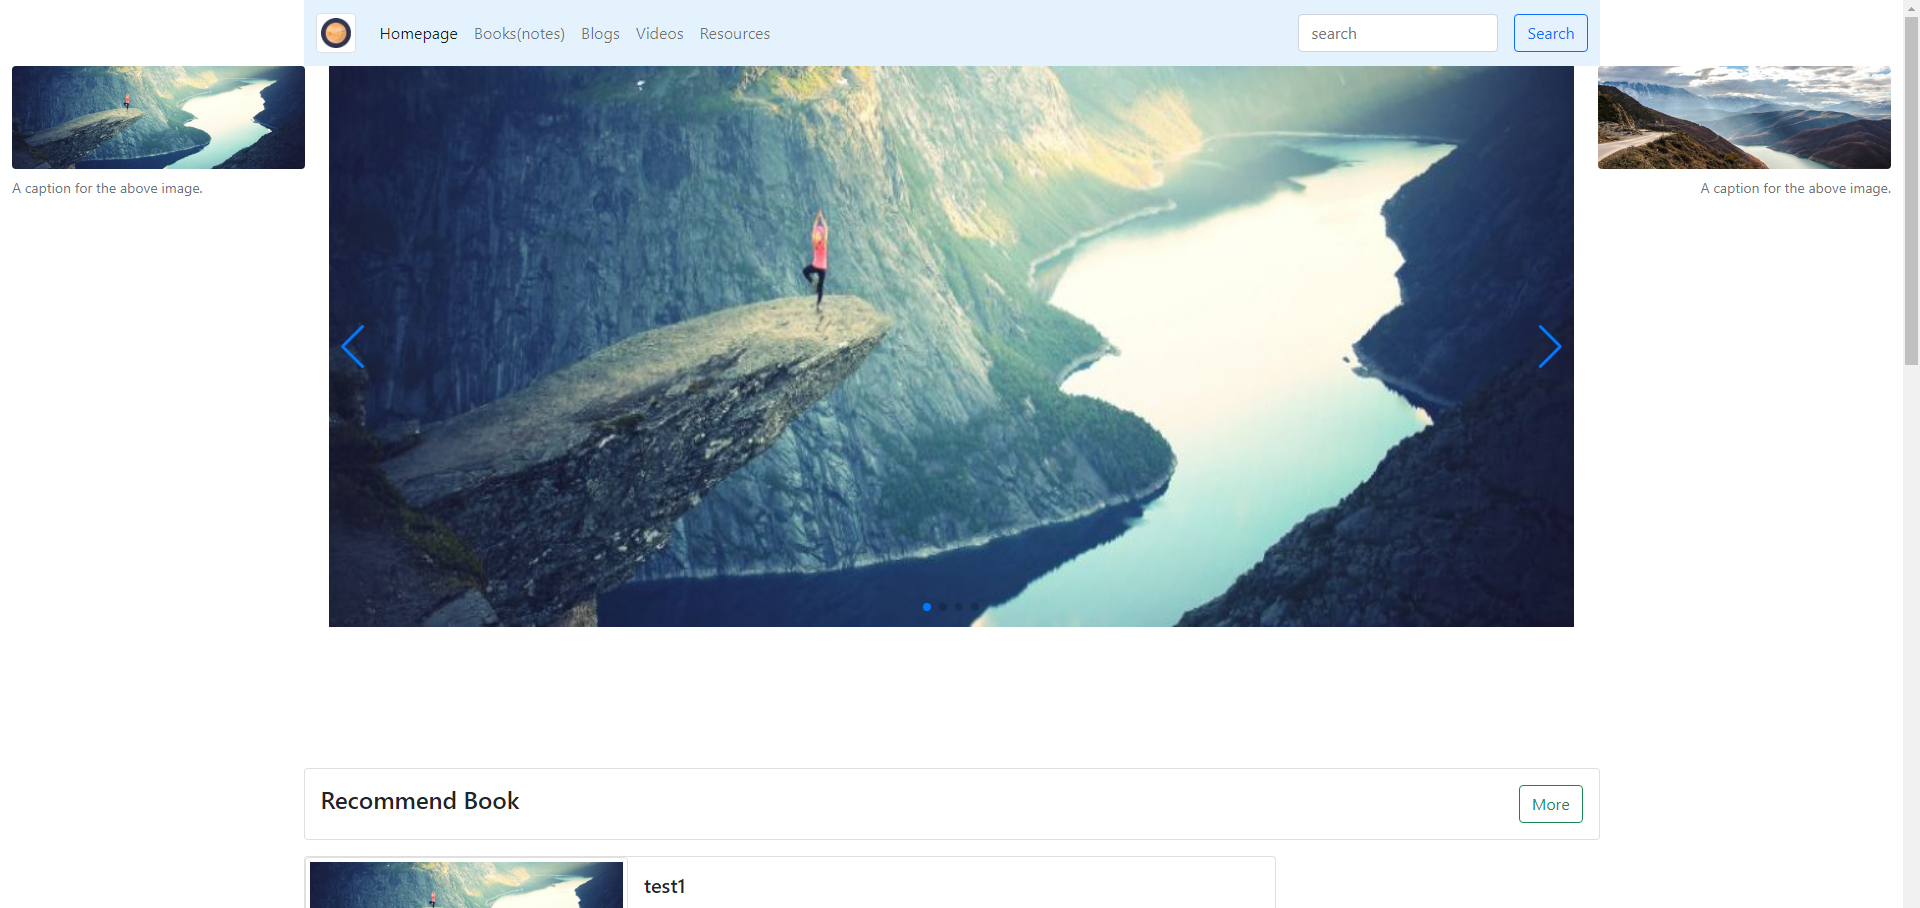
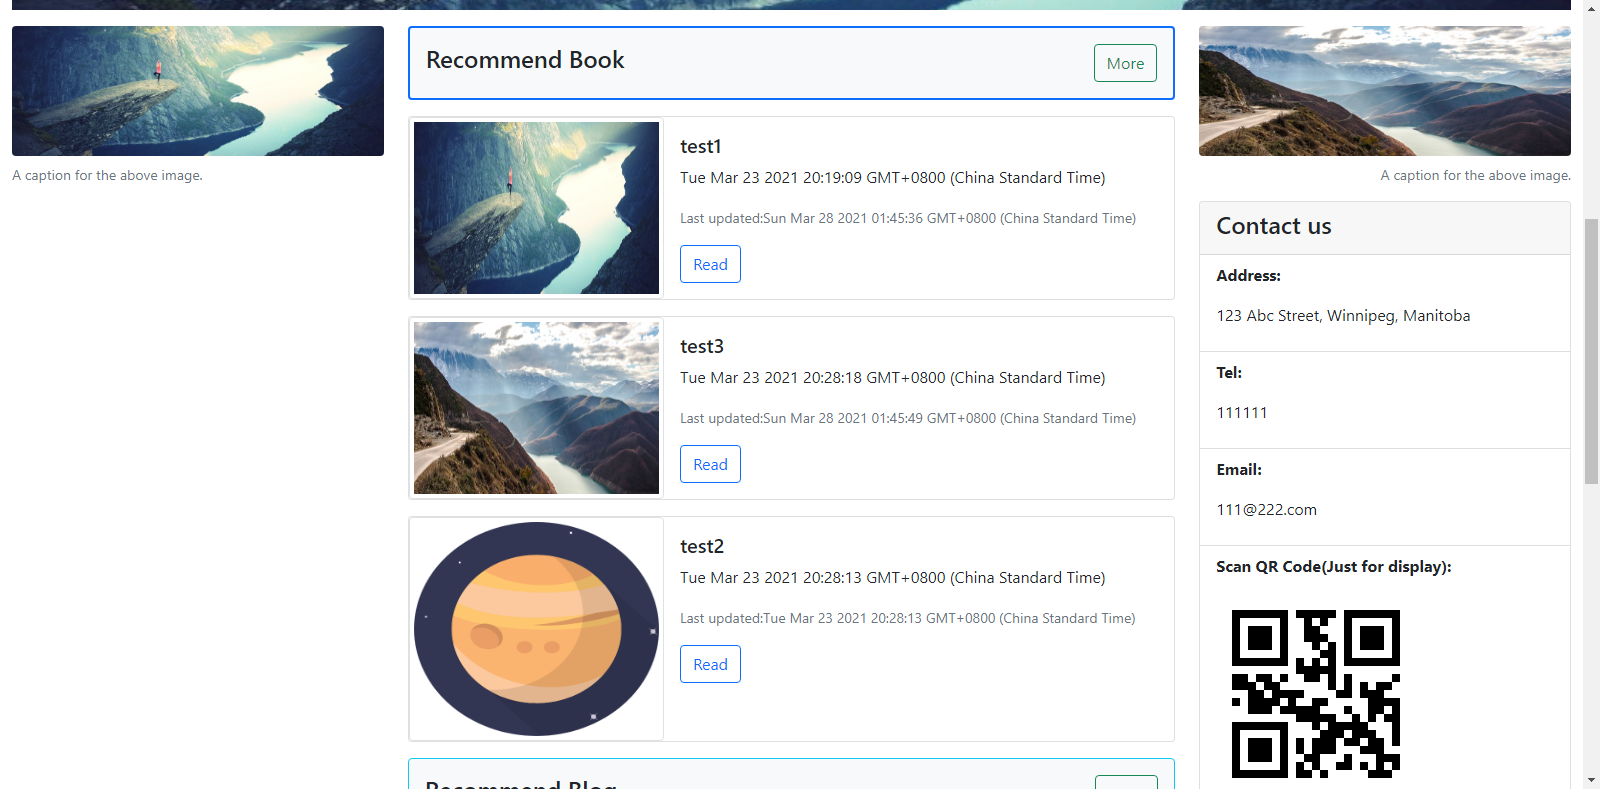
better main page and refactored sidebar

diff --git a/server/app/view/frontend/home.html b/server/app/view/frontend/home.html
@@ -1,78 +1,92 @@
 {% extends './layout.html' %}
 {% block head %}
-{% endblock%}
+{% endblock %}
 
 {% block content %}
-<div class="container">
-    <div class="card mb-3 ">
-        <div class="card-body d-flex">
-          <h4 class="me-auto">Recommend Book</h4>
-          <a href="/book" class="btn btn-outline-success">More</a>
+<h1 class="text-center bg-light bg-gradient my-2">Title of blog demo project</h1>
+{% include './swiper.html' %}
+
+<div class="container-fluid">
+    <div class="row">
+        <div class="col-3">
+            {% include './leftsidebar.html' %}
+        </div>
+        <div class="col-6">
+            <div class="card mb-3 border-2 border-primary bg-light">
+                <div class="card-body d-flex">
+                    <h4 class="me-auto">Recommend Book</h4>
+                    <a href="/book" class="btn btn-outline-success">More</a>
+                </div>
+            </div>
+            {% for item in recommendBook %}
+            <div class="card mb-3" >
+                <div class="row g-0">
+                    <div class="col-md-4" style="max-height: 14rem;">
+                        <img class="img-thumbnail w-100 h-100" src="{{item.img}}" alt="{{item.img}}">
+                    </div>
+                    <div class="col-md-8">
+                    <div class="card-body">
+                        <h5 class="card-title">{{item.title}}</h5>
+                        <p class="card-text">{{item.createdAt}}</p>
+                        <p class="card-text"><small class="text-muted">Last updated:{{item.updatedAt}}</small></p>
+                        <a href="/book/{{item.id}}" class="btn btn-outline-primary">Read</a>
+                    </div>
+                    </div>
+                </div>
+            </div>
+            {% endfor %}
+            <div class="card mb-3 border-info bg-light">
+                <div class="card-body d-flex">
+                    <h4 class="me-auto">Recommend Blog</h4>
+                    <a href="/blog" class="btn btn-outline-success">More</a>
+                </div>
+            </div>
+            {% for item in recommendBlog %}
+            <div class="card mb-3 " >
+                <div class="row g-0">
+                    <div class="col-md-4">
+                        <img class="img-thumbnail w-100 h-100" src="{{item.img}}" alt="{{item.img}}">
+                    </div>
+                    <div class="col-md-8">
+                    <div class="card-body">
+                        <h5 class="card-title">{{item.title}}</h5>
+                        <p class="card-text">{{item.createdAt}}</p>
+                        <p class="card-text"><small class="text-muted">Last updated:{{item.updatedAt}}</small></p>
+                        <a href="/blog/{{item.id}}" class="btn btn-outline-primary">Read</a>
+                    </div>
+                    </div>
+                </div>
+            </div>
+            {% endfor %}
+            <div class="card mb-3 border-success bg-light">
+                <div class="card-body d-flex">
+                    <h4 class="me-auto">Recommend Video</h4>
+                    <a href="video" class="btn btn-primary">More</a>
+                </div>
+            </div>
+            {% for item in recommendVideo %}
+            <div class="card mb-3" >
+                <div class="row g-0">
+                    <div class="col-md-4">
+                        <img class="img-thumbnail w-100 h-100" src="{{item.img}}" alt="{{item.img}}">
+                    </div>
+                    <div class="col-md-8">
+                    <div class="card-body">
+                        <h5 class="card-title">{{item.title}}</h5>
+                        <p class="card-text">{{item.createdAt}}</p>
+                        <p class="card-text"><small class="text-muted">Last updated:{{item.updatedAt}}</small></p>
+                        <a href="/video/{{item.id}}" class="btn btn-primary">Watch</a>
+                    </div>
+                    </div>
+                </div>
+            </div>
+            {% endfor %}
+        </div>
+        <div class="col-3">
+            {% include './rightsidebar.html' %}
+
         </div>
     </div>
-    {% for item in recommendBook %}
-    <div class="card mb-3 w-75" >
-        <div class="row g-0">
-            <div class="col-md-4">
-                <img class="img-thumbnail" src="{{item.img}}" alt="{{item.img}}">
-            </div>
-            <div class="col-md-8">
-            <div class="card-body">
-                <h5 class="card-title">{{item.title}}</h5>
-                <p class="card-text">{{item.createdAt}}</p>
-                <p class="card-text"><small class="text-muted">Last updated:{{item.updatedAt}}</small></p>
-                <a href="/book/{{item.id}}" class="btn btn-outline-primary">Read</a>
-            </div>
-            </div>
-        </div>
-    </div>
-    {% endfor %}
-    <div class="card mb-3">
-        <div class="card-body">
-          <h4>Recommend Blog</h4>
-          <a href="/blog" class="btn btn-outline-success">More</a>
-        </div>
-    </div>
-    {% for item in recommendBlog %}
-    <div class="card mb-3 w-75" >
-        <div class="row g-0">
-            <div class="col-md-4">
-                <img class="img-thumbnail" src="{{item.img}}" alt="{{item.img}}">
-            </div>
-            <div class="col-md-8">
-            <div class="card-body">
-                <h5 class="card-title">{{item.title}}</h5>
-                <p class="card-text">{{item.createdAt}}</p>
-                <p class="card-text"><small class="text-muted">Last updated:{{item.updatedAt}}</small></p>
-                <a href="/blog/{{item.id}}" class="btn btn-outline-primary">Read</a>
-            </div>
-            </div>
-        </div>
-    </div>
-    {% endfor %}
-    <div class="card mb-3">
-        <div class="card-body">
-          <h4>Recommend Video</h4>
-          <a href="video" class="btn btn-primary">More</a>
-        </div>
-    </div>
-    {% for item in recommendVideo %}
-    <div class="card mb-3 w-75" >
-        <div class="row g-0">
-            <div class="col-md-4">
-                <img class="img-thumbnail" src="{{item.img}}" alt="{{item.img}}">
-            </div>
-            <div class="col-md-8">
-            <div class="card-body">
-                <h5 class="card-title">{{item.title}}</h5>
-                <p class="card-text">{{item.createdAt}}</p>
-                <p class="card-text"><small class="text-muted">Last updated:{{item.updatedAt}}</small></p>
-                <a href="/video/{{item.id}}" class="btn btn-primary">Watch</a>
-            </div>
-            </div>
-        </div>
-    </div>
-    {% endfor %}
     {% include 'frontend/footer.html' %}
 </div>
 

diff --git a/server/app/view/frontend/layout.html b/server/app/view/frontend/layout.html
@@ -53,65 +53,11 @@
     </div>
   </nav>
 </div>
-<div class="container-fluid ">
-    <div class="row">
-        <div class="col-2">
-          <figure class="figure">
-            <img src="/image/swiper/swiper1.jpg" class="figure-img img-fluid rounded" alt="swiper1.jpg">
-            <figcaption class="figure-caption">A caption for the above image.</figcaption>
-          </figure>
-        </div>
-        <div class="col-8">
-            <div class="swiper-container">
-                <div class="swiper-wrapper">
-                    <div class="swiper-slide">
-                        <img src="/image/swiper/swiper1.jpg" alt="swiper1.jpg">
-                    </div>
-                    <div class="swiper-slide">
-                    <img src="/image/swiper/swiper2.jpg" alt="swiper2.jpg">
-                    </div>
-                    <div class="swiper-slide">
-                    <img src="/image/swiper/swiper3.jpg" alt="swiper3.jpg">
-                    </div>
-                    <div class="swiper-slide">
-                    <img src="/image/swiper/swiper4.jpg" alt="swiper4.jpg">
-                    </div>
-                </div>
-                <!-- Add Pagination -->
-                <div class="swiper-pagination"></div>
-                <!-- Add Arrows -->
-                <div class="swiper-button-next"></div>
-                <div class="swiper-button-prev"></div>
-            </div>
-        </div>
-        <div class="col-2">
-          <figure class="figure">
-            <img src="/image/swiper/swiper2.jpg" class="figure-img img-fluid rounded" alt="swiper2.jpg">
-            <figcaption class="figure-caption text-end">A caption for the above image.</figcaption>
-          </figure>
-        </div>
-    </div>
-</div>   
+
 {% block content %}
 {% endblock %}
 {% block footer %}
 {% endblock %}
-    <script src="/js/bootstrap.bundle.js"></script>
-    <script src="/js/swiper-bundle.min.js"></script>
-    <script>
-        var swiper = new Swiper('.swiper-container', {
-            slidesPerView: 1,
-            spaceBetween: 30,
-            loop: true,
-            pagination: {
-                el: '.swiper-pagination',
-                clickable: true,
-            },
-            navigation: {
-                nextEl: '.swiper-button-next',
-                prevEl: '.swiper-button-prev',
-            },
-        });
-    </script>
+
 </body>
 </html>

diff --git a/server/app/view/frontend/swiper.html b/server/app/view/frontend/swiper.html
@@ -1,0 +1,47 @@
+<div class="container-fluid mb-3">
+  <div class="row ">
+      <div class="col-12">
+          <div class="swiper-container" style="height: 30rem;">
+              <div class="swiper-wrapper" >
+                  <div class="swiper-slide">
+                      <img src="/image/swiper/swiper1.jpg" alt="swiper1.jpg" >
+                  </div>
+                  <div class="swiper-slide">
+                  <img src="/image/swiper/swiper2.jpg" alt="swiper2.jpg">
+                  </div>
+                  <div class="swiper-slide">
+                  <img src="/image/swiper/swiper3.jpg" alt="swiper3.jpg">
+                  </div>
+                  <div class="swiper-slide">
+                  <img src="/image/swiper/swiper4.jpg" alt="swiper4.jpg">
+                  </div>
+              </div>
+              <!-- Add Pagination -->
+              <div class="swiper-pagination"></div>
+              <!-- Add Arrows -->
+              <div class="swiper-button-next"></div>
+              <div class="swiper-button-prev"></div>
+          </div>
+      </div>
+      
+  </div>
+</div>   
+
+<script src="/js/bootstrap.bundle.js"></script>
+<script src="/js/swiper-bundle.min.js"></script>
+<script>
+    var swiper = new Swiper('.swiper-container', {
+        slidesPerView: 1,
+        spaceBetween: 30,
+        loop: true,
+        autoHeight: true,
+        pagination: {
+            el: '.swiper-pagination',
+            clickable: true,
+        },
+        navigation: {
+            nextEl: '.swiper-button-next',
+            prevEl: '.swiper-button-prev',
+        },
+    });
+</script>

diff --git a/server/app/view/frontend/rightsidebar.html b/server/app/view/frontend/rightsidebar.html
@@ -1,0 +1,29 @@
+<div class="col-12">
+  <figure class="figure">
+    <img src="/image/swiper/swiper2.jpg" class="figure-img img-fluid rounded" alt="swiper2.jpg">
+    <figcaption class="figure-caption text-end">A caption for the above image.</figcaption>
+  </figure>
+  <div class="card" >
+    <div class="card-header">
+      <h4>Contact us
+    </div>
+    <ul class="list-group list-group-flush">
+      <li class="list-group-item">
+        <p class="fw-bold">Address:</p>
+        <p>123 Abc Street, Winnipeg, Manitoba</p>
+      </li>
+      <li class="list-group-item">
+        <p class="fw-bold">Tel:</p>
+        <p>111111</p>
+      </li>
+      <li class="list-group-item">
+        <p class="fw-bold">Email:</p>
+        <p>111@222.com</p>
+      </li>
+      <li class="list-group-item">
+        <p class="fw-bold">Scan QR Code(Just for display):</p>
+        <img src="/image/QRCode.png" alt="QRCode">
+      </li>
+    </ul>
+  </div>
+</div>

diff --git a/server/app/router.js b/server/app/router.js
@@ -29,11 +29,10 @@ module.exports = app => {
   router.resources('resource', '/api/resource', checkToken, controller.resource);
   router.resources('video', '/api/video', checkToken, controller.video);
   router.resources('user', '/api/user', checkToken, controller.user);
-  //for create user initially
-  // router.resources('user', '/api/user',  controller.user);
-  
   router.post('/api/login', controller.admin.login);
   router.get('/api/userinfo', controller.admin.userinfo);
+  
+  // for image uploading
   router.post('/api/upload', controller.upload.index);
   router.post('/api/downloadImg', controller.download.downloadImg);
   router.post('/api/blogImg', controller.blog.downloadImg);

diff --git a/server/app/view/frontend/leftsidebar.html b/server/app/view/frontend/leftsidebar.html
@@ -1,0 +1,6 @@
+<div class="col-12">
+  <figure class="figure">
+    <img src="/image/swiper/swiper1.jpg" class="figure-img img-fluid rounded" alt="swiper1.jpg">
+    <figcaption class="figure-caption">A caption for the above image.</figcaption>
+  </figure>
+</div>

diff --git a/README.md b/README.md
@@ -31,9 +31,9 @@
 
 ![image-3](https://github.com/ccrriss/CMSBlogDemo/blob/main/screenshots/image-3.png)
 
+![image-4](https://github.com/ccrriss/CMSBlogDemo/blob/main/screenshots/image-4.png)
 
-
-
+![image-5](https://github.com/ccrriss/CMSBlogDemo/blob/main/screenshots/image-5.png)
 
 ### Future plan:
 
